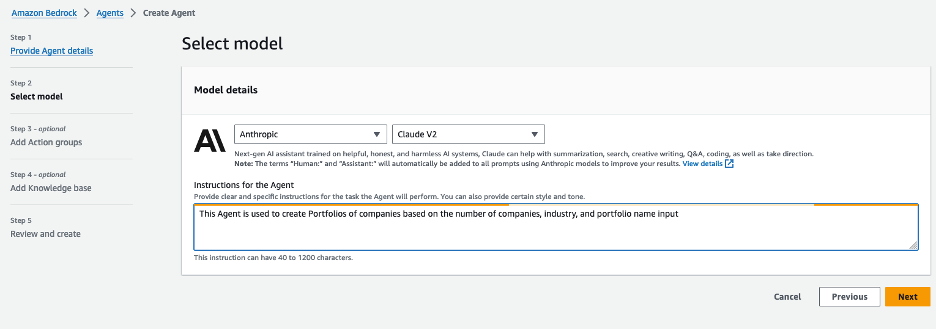
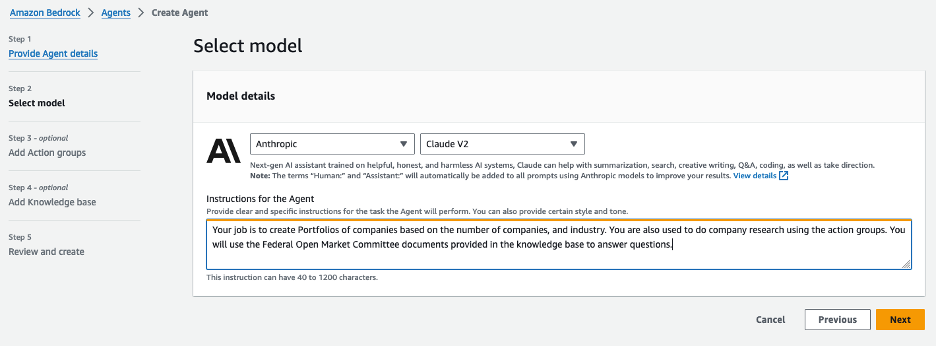
updated readme to provide clarity

diff --git a/README.md b/README.md
@@ -18,17 +18,25 @@ This guide details the setup process for an Amazon Bedrock agent on AWS, which w
 ![Bucket create 2](Streamlit_App/images/bucket_pic_2.png)
 
 After creation, add the .pdf files located [here](https://github.com/jossai87/bedrock-agents-streamlit/tree/main/s3Docs) to the s3 bucket.
+(These files are the Federal Open Market Committee documents describing monetary policy decisions made at FOMC meetings. The documents include discussion of economic conditions, policy directives to the Federal Reserve Bank of New York for open market operations, and votes on target ranges for the federal funds rate.). Once uploaded, please select one of the documents to open and review the content.
 
 ![bucket domain data](Streamlit_App/images/bucket_domain_data.png)
 
 
-
-- **Artifacts Bucket**: Create another S3 bucket to store artifacts. For example, call it "artifacts-bedrock-agent-creator-alias". You will need to download, then add the API schema file to this S3 bucket. This .json file can be found [here](https://github.com/jossai87/bedrock-agents-streamlit/blob/main/WorkingSchema.json).
+- **Artifacts Bucket**: Create another S3 bucket to store artifacts. For example, call it "artifacts-bedrock-agent-creator-alias". You will need to download, then add the API schema file to this S3 bucket. This .json file can be found [here](https://github.com/jossai87/bedrock-agents-streamlit/blob/main/WorkingSchema.json). 
+(The provided schema is an OpenAPI specification for the "PortfolioCreator-471 API," which outlines the structure and capabilities of a service designed for stock portfolio creation and company financial research. It defines two primary endpoints, "/companyResearch" and "/createPortfolio," detailing how to interact with the API, the required parameters, and the expected responses.) Once uploaded, please select and open the .json document to review the content.
 
 ![Loaded Artifact](Streamlit_App/images/loaded_artifact.png)
+ 
 
 ### Step 2: Knowledge Base Setup in Bedrock Agent
-- Navigate to the Amazon Bedrock console, then create a knowledge base. You can use the default name, or enter in your own. Sync S3 bucket "knowledgebase-bedrock-agent-alias" to this knowledge base.
+- Navigate to the Amazon Bedrock console, then create a knowledge base. You can use the default name, or enter in your own. Then, select "Next" at the bottom right of the screen. 
+
+![KB details](Streamlit_App/images/kb_details.png)
+
+![KB details 2](Streamlit_App/images/kb_details_next.png)
+
+- Sync S3 bucket "knowledgebase-bedrock-agent-alias" to this knowledge base.
 
 ![KB setup](Streamlit_App/images/KB_setup.png)
 
@@ -36,40 +44,92 @@ After creation, add the .pdf files located [here](https://github.com/jossai87/be
  
 ![Vector Store Config](Streamlit_App/images/vector_store_config.png)
 
+- On the next screen, review your work, then select "Create Knowledge Base" 
+(Creating the knowledge base may take a few minutes. You can continue to the next step in the meantime.)
+
+![Review and Create KB](Streamlit_App/images/review_create_kb.png)
+
+
 
 ### Step 3: Lambda Function Configuration
-- Create a Lambda function (Python 11) for the Bedrock agent's action group. We will call this Lambda function "PortfolioCreator-actions". Copy the provided code from the "WorkingLambda.py" file into your Lambda function. After, select the deploy button in the tab section in the Lambda console. (Make sure that the IAM role associated with the Bedrock agent can invoke the Lambda function)
+- Create a Lambda function (Python 3.11) for the Bedrock agent's action group. We will call this Lambda function "PortfolioCreator-actions". 
+
+![Create Function](Streamlit_App/images/create_function.png)
+
+![Create Function2](Streamlit_App/images/create_function2.png)
+
+-Copy the provided code from the ["WorkingLambda.py"](https://github.com/jossai87/bedrock-agents-streamlit/blob/main/WorkingLambda.py) file into your Lambda function. After, select the deploy button in the tab section in the Lambda console. (Make sure that the IAM role associated with the Bedrock agent can invoke the Lambda function)
 
 ![Lambda deploy](Streamlit_App/images/lambda_deploy.png)
 
-- Apply a resource policy to the Lambda to grant Bedrock agent access. Here is an example of the resource policy (be sure to use the correct Bedrock agent Source ARN for your Lambda resource policy):  
+- Next, apply a resource policy to the Lambda to grant Bedrock agent access. To do this, we will switch the top tab from “code” to “configuration” and the side tab to “Permissions”. Then, scroll to the “Resource-based policy statements” section and click the “Add permissions” button.
 
 ![Permissions config](Streamlit_App/images/permissions_config.png)
 
+![Lambda resource policy create](Streamlit_App/images/lambda_resource_policy_create.png)
+
+- Here is an example of the resource policy: 
+(be sure to use the correct Bedrock agent Source ARN for your Lambda resource policy):
+
 ![Lambda resource policy](Streamlit_App/images/lambda_resource_policy.png)
 
+
 ### Step 4: Setup Bedrock Agent and Action Group 
-- Create an agent, and select the Anthropic: Claude V2 model. Add instructions on what the agent is used for. For example, use the following: “This Agent is used to create Portfolios of companies based on the number of companies, industry, and portfolio name input. This agent can also search company data.”
+- Navigate to the Bedrock console, go to the toggle on the left, and under “Orchestration” select Agents. Select “Create Agent”.
+
+![Orchestration](Streamlit_App/images/orchestration.png)
+
+- On the next screen, provide an agent name, and leave the other options as default, then select “Next”
+
+![Agent details](Streamlit_App/images/agent_details.png)
+
+![Agent details 2](Streamlit_App/images/agent_details_2.png)
+
+- Select the Anthropic: Claude V2 model. Add instructions on what the agent is used for. For example, use the following: “Your job is to create Portfolios of companies based on the number of companies, and industry. You are also used to do company research using the action groups. You will use the Federal Open Market Committee documents provided in the knowledge base to answer questions.”
 
 ![Model select](Streamlit_App/images/select_model.png)
 
-When creating the agent, select Lambda function "PortfolioCreator-actions". Make sure to include the lambda code provided. Next, select s3 bucket "artifacts-bedrock-agent-creator-alias", which should include the API schema.
+When creating the agent, select Lambda function "PortfolioCreator-actions". Make sure to include the lambda code provided. Next, select the schema file WorkingSchema.json from the s3 bucket "artifacts-bedrock-agent-creator-alias", which should include the API schema.
 
 ![Add action group](Streamlit_App/images/action_group_add.png)
 
+
 ### Step 5: Setup Knowledge Base with Bedrock Agent
+
+- Select the agent created in the previous step. Scroll down and select “Working draft”, then the “Add” button under Knowledge bases.
+
+![Working draft](Streamlit_App/images/working_draft.png)
+
+![KB add button](Streamlit_App/images/kb_add_button.png)
+
 - When integrating the KB with the agent, you will need to provide basic instructions on how to handle the knowledge base. For example, use the following: “knowledge base for answering queries to prompts. After every response, ask if anything else is needed.”
  
 ![Knowledge base add](Streamlit_App/images/add_knowledge_base.png)
+
 
 ### Step 6: Create an alias
 -Create an alias (new version), and choose a name of your liking. 
  
 ![Create alias](Streamlit_App/images/create_alias.png)
 
+- Next, navigate to the "Agent Overview" settings for the agent created by selecting "Agents" under the Orchestration dropdown menu on the left of the screen, then select the agent. Copy the Agent ARN, then add this ARN to the resource policy of Lambda function “PortfolioCreator-actions” previously created in step 3. 
+
+![Agent ARN](Streamlit_App/images/agent_arn.png)
+
 ## Testing the Setup
 ### Testing the Knowledge Base
-- Use the Bedrock console to test the knowledge base after its creation.
+- While in the Bedrock console, select “Knowledge base” under the Orchestration tab, then the KB you created. Scroll down to the Data source section, and make sure to select the “Sync” button.
+
+![KB sync](Streamlit_App/images/kb_sync.png)
+
+- You will see a user interface on the right where you will need to select a model. Choose the Anthropic Claude V2 model, then select “Apply”.
+
+![Select model test](Streamlit_App/images/select_model_test.png)
+
+- You should now have the ability to enter prompts in the user interface provided.
+
+![KB prompt](Streamlit_App/images/kb_prompt.png)
+
 - Test Prompts:
   1. "Give me a summary of financial market developments and open market operations in January 2023."
   2. "What is the SEC's view on current economic conditions for September 2023?"
@@ -77,7 +137,9 @@ When creating the agent, select Lambda function "PortfolioCreator-actions". Make
   4. "What can you tell me about the Staff Review of the Economic & Financial Situation?"
 
 ### Testing the Bedrock Agent
-- After connecting the agent to the knowledge base, test it using the Bedrock console.
+- While in the Bedrock console, select “Agents” under the Orchestration tab, then the agent you created. You should be able to enter prompts in the user interface provided to test your knowledge base and action groups from the agent.
+
+![Agent test](Streamlit_App/images/agent_test.png)
 
 - Tests knowledge base:
     1. "Give me a summary of development in financial market and open market operations in january 2023"
@@ -112,6 +174,7 @@ When creating the agent, select Lambda function "PortfolioCreator-actions". Make
 
 6. **Install Streamlit** (if not already installed):
    - Run `pip install streamlit`. Additionally, make sure boto3, and pandas dependencies are installed.
+
 7. **Run the Streamlit App**:
    - Execute the command `streamlit run app.py --server.address=0.0.0.0 --server.port=8080`.
    - Streamlit will start the app, and you can view it by selecting "Preview" within the Cloud9 IDE at the top, then "Preview Running Application"
